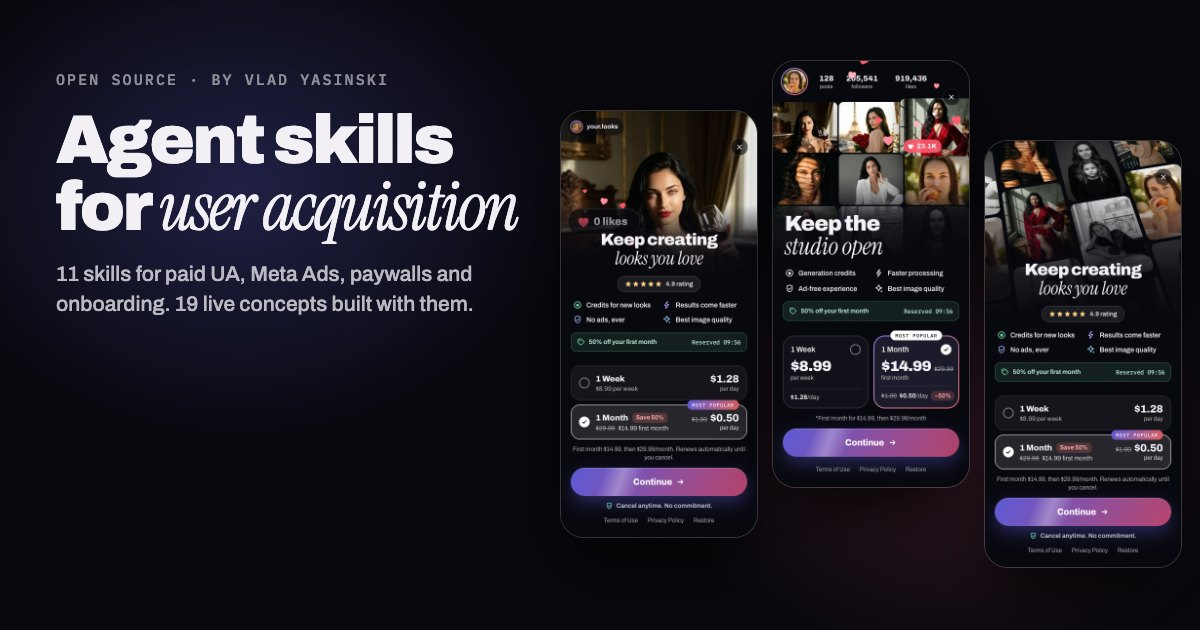
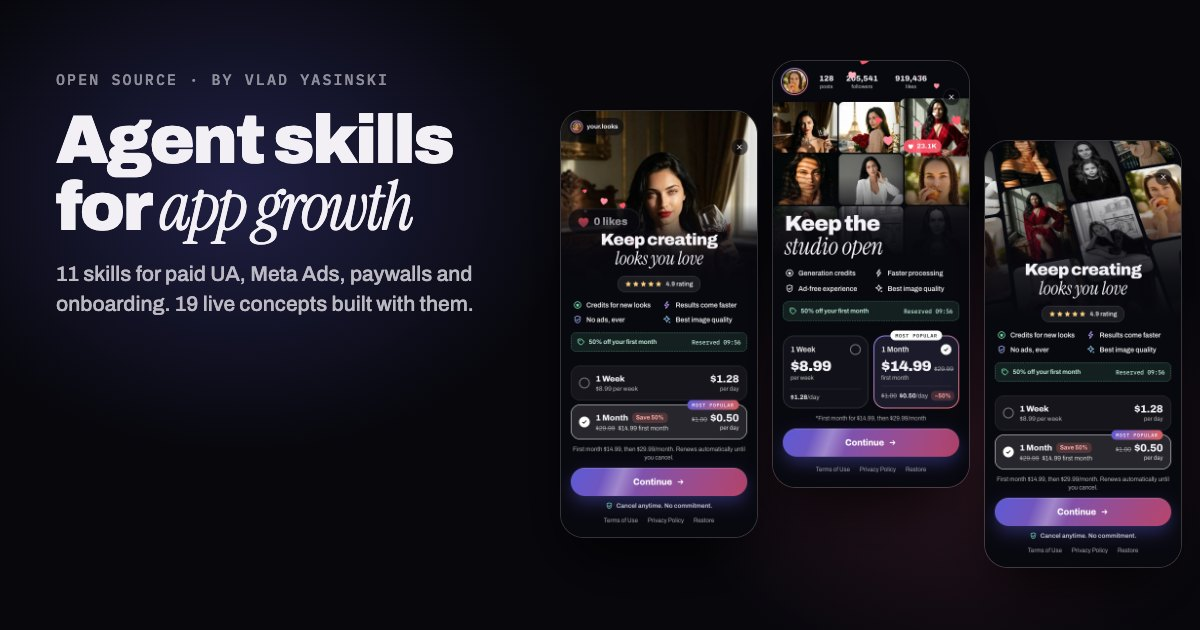
OG card: Agent skills for app growth

Changed region(s): [[0.1233, 0.2714, 0.4317, 0.3921]]

diff --git a/index.html b/index.html
@@ -12,7 +12,7 @@ sitemap: true
 <link rel="canonical" href="https://ua5er.github.io/user-acquisition-skills/">
 <meta name="author" content="Vlad Yasinski">
 <meta property="og:type" content="website">
-<meta property="og:title" content="User Acquisition Skills by Vlad Yasinski">
+<meta property="og:title" content="Agent skills for app growth, by Vlad Yasinski">
 <meta property="og:description" content="Open agent skills for paid UA, Meta Ads, paywalls and onboarding, with 19 live design concepts built using them.">
 <meta property="og:url" content="https://ua5er.github.io/user-acquisition-skills/">
 <meta property="og:image" content="https://ua5er.github.io/user-acquisition-skills/assets/og-gallery.jpg">
